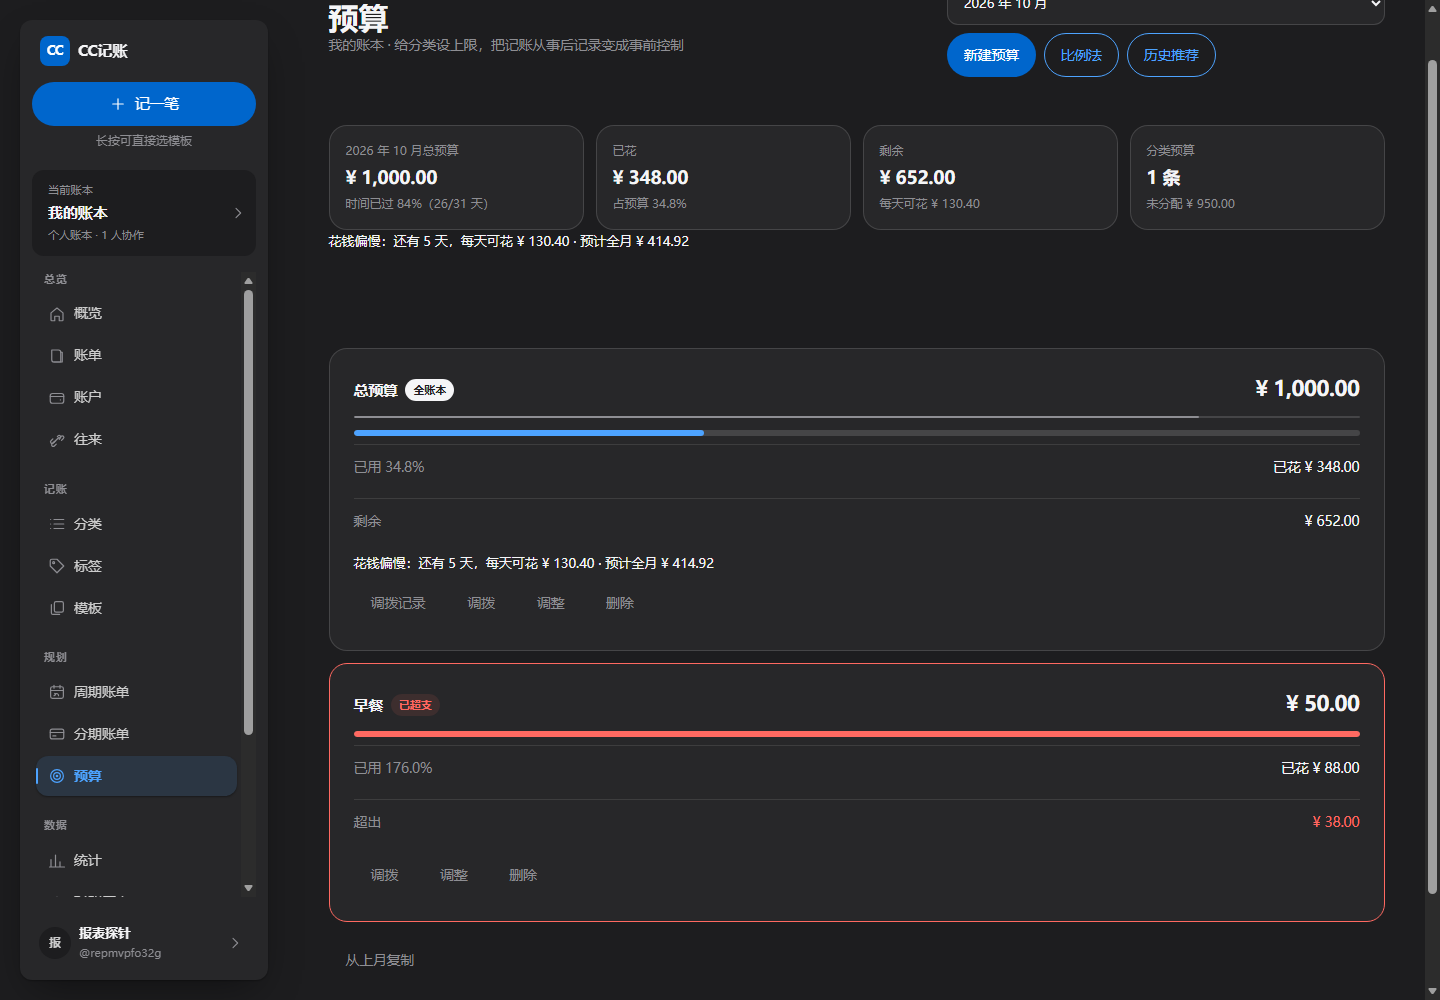
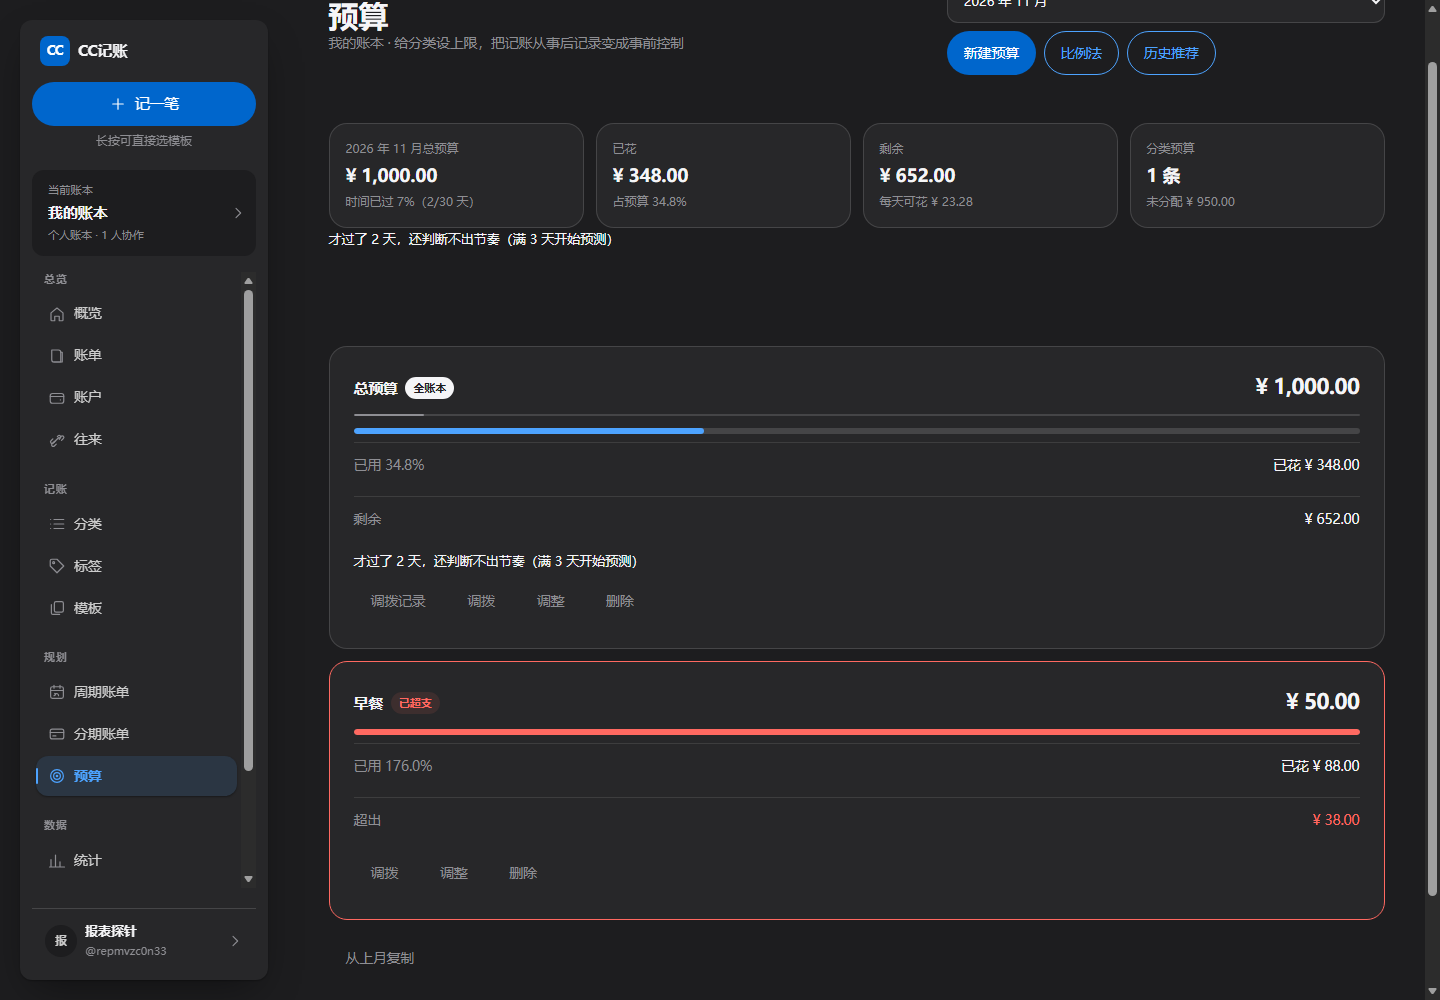
fix(stats): 本月下左右键按月跳转 (v1.1.20)
- shiftRange 平移粒度改由账期类型 filters.quick 给定，不再按区间实际跨度反推
  （本月区间结束日截到今天，导致每月 1~7 号跨度仅 1~7 天被误判为「周」、按 7 天爬）
- 月份分支落地为目标月整月，避免 setMonth 月末溢出进位
- 手填自定义区间仍退回按跨度判断；last12 行为保持不变
- 验证：真机浏览器月份序列 2026-11 → 10 → 09 → 08 逐月推进；
  typecheck / audit:syntax/template/imports/contrast/deploydoc 全绿；
  probe:reports 57/59（失败 2 条经基线对比为既有欠账，非回归）
- 版本号 bump 至 1.1.20（package.json / APP_VERSION / docker-compose / sw.js 缓存 v41 / CHANGELOG / DEPLOY）

diff --git a/public/assets/views/stats.js b/public/assets/views/stats.js
@@ -90,18 +90,56 @@ function last12Range() {
   return { from: iso(from), to: iso(to) };
 }
 
-/** 账期切换：按当前区间的**跨度类型**平移，而不是死板地按月移 */
-function shiftRange(range, dir) {
+/**
+ * 账期切换：按**账期类型**平移，而不是死板地按月移。
+ *
+ * ⚠ `granularity` 必须由账期类型（`filters.quick`）给定，**不能靠区间跨度反推**。
+ * 这是本函数曾经的真实 bug：`monthRange(0)` 把「本月」的结束日**截到今天**
+ * （避免统计到还没发生的日子），于是每月 1~7 号这几天，本月区间只有 1~7 天。
+ * 跨度判据 `days <= 7` 就把它当成了「一周」—— 用户选着「本月」点 ‹，
+ * 跳出来的却是「上月 25 号 ~ 26 号」这种碎区间，而不是「上个月」。
+ * 表现就是「选了本月，左右键却不按月跳」，而且只在月初那几天复现，
+ * 月中再点又是好的，极易被当成偶发。
+ *
+ * 只有手填的自定义区间没有账期类型可言，那种情况才退回按跨度判断。
+ */
+function shiftRange(range, dir, granularity) {
   const f = new Date(`${range.from}T00:00:00`);
   const t = new Date(`${range.to}T00:00:00`);
+
+  if (granularity === 'week') {
+    return {
+      from: iso(new Date(f.setDate(f.getDate() + dir * 7))),
+      to: iso(new Date(t.setDate(t.getDate() + dir * 7))),
+    };
+  }
+  if (granularity === 'month') {
+    /**
+     * 落到**目标月的整月**（1 号 ~ 月末），不是「起点 + 一个月」。
+     * 后者从 1 月 31 号起算会滑到 3 月（`setMonth` 的溢出进位）。
+     */
+    const nf = new Date(f.getFullYear(), f.getMonth() + dir, 1);
+    const nt = new Date(f.getFullYear(), f.getMonth() + dir + 1, 0);
+    return { from: iso(nf), to: iso(nt) };
+  }
+  if (granularity === 'year') {
+    return yearRange(new Date(`${range.from}T00:00:00`).getFullYear() - new Date().getFullYear() + dir);
+  }
+
+  /* 自定义区间：无账期类型，退回按跨度判断 */
   const days = Math.round((t - f) / 86400000) + 1;
-  if (days <= 7) return { from: iso(new Date(f.setDate(f.getDate() + dir * 7))), to: iso(new Date(t.setDate(t.getDate() + dir * 7))) };
+  if (days <= 7) {
+    return {
+      from: iso(new Date(f.setDate(f.getDate() + dir * 7))),
+      to: iso(new Date(t.setDate(t.getDate() + dir * 7))),
+    };
+  }
   if (days <= 31) {
     const nf = new Date(f.getFullYear(), f.getMonth() + dir, 1);
     const nt = new Date(f.getFullYear(), f.getMonth() + dir + 1, 0);
     return { from: iso(nf), to: iso(nt) };
   }
-  return yearRange((new Date(`${range.from}T00:00:00`).getFullYear() - new Date().getFullYear()) + dir);
+  return yearRange(new Date(`${range.from}T00:00:00`).getFullYear() - new Date().getFullYear() + dir);
 }
 
 const periodLabel = (r) => {
@@ -961,8 +999,23 @@ export async function renderStats(container, { go } = {}) {
     const el = $('[data-role=period-label]');
     if (el) el.textContent = periodLabel(r);
   }
+  /**
+   * 左右键的平移粒度 = 当前账期类型。
+   *
+   * ⚠ 手填过日期（`manualRange`）之后就不再有「账期类型」这回事了，
+   * 那种情况交回 `shiftRange` 按跨度退化 —— 用户自己圈的一段，
+   * 「按整月跳」反而不是他要的（他圈的可能就是 8 天）。
+   * 「所有 / 自定义」同理没有类型可言。
+   */
+  const stepGranularity = () => {
+    if (filters.manualRange) return undefined;
+    return filters.quick === 'week' || filters.quick === 'month' || filters.quick === 'year'
+      ? filters.quick
+      : undefined;
+  };
+
   $('[data-role=prev]')?.addEventListener('click', () => {
-    const r = shiftRange(activeRange(), -1);
+    const r = shiftRange(activeRange(), -1, stepGranularity());
     filters.dateFrom = r.from;
     filters.dateTo = r.to;
     filters.manualRange = true;
@@ -970,7 +1023,7 @@ export async function renderStats(container, { go } = {}) {
     load();
   });
   $('[data-role=next]')?.addEventListener('click', () => {
-    const r = shiftRange(activeRange(), 1);
+    const r = shiftRange(activeRange(), 1, stepGranularity());
     filters.dateFrom = r.from;
     filters.dateTo = r.to;
     filters.manualRange = true;

diff --git a/public/sw.js b/public/sw.js
@@ -21,7 +21,7 @@
  * 静态资源走 SWR，不换版本号的话用户第一次刷新拿到的仍是旧 JS ——
  * 正好是要修的那份，会被当成「没修好」。
  */
-const VERSION = 'cc-ledger-v40';
+const VERSION = 'cc-ledger-v41';
 const SHELL = `${VERSION}-shell`;
 const STATIC = `${VERSION}-static`;
 const API = `${VERSION}-api`;

diff --git a/src/config/env.ts b/src/config/env.ts
@@ -45,7 +45,7 @@ const EnvSchema = z.object({
   ENABLE_SCHEDULER: boolEnv(true),
   BACKUP_ENABLED: boolEnv(true),
   BACKUP_RETENTION_DAYS: z.coerce.number().int().min(0).default(14),
-  APP_VERSION: z.string().min(1).default('1.1.19'),
+  APP_VERSION: z.string().min(1).default('1.1.20'),
 });
 
 export type Env = z.infer<typeof EnvSchema>;

diff --git a/DEPLOY-绿联NAS.md b/DEPLOY-绿联NAS.md
@@ -216,7 +216,7 @@ cat .env
 | 配置项 | 作用 | 能不能改 |
 |---|---|---|
 | `build: context: .` | 用当前目录的 `Dockerfile` 构建镜像 | 别改 |
-| `image: ${CC_IMAGE:-cc-ledger:1.1.19}` | 用哪个镜像：不设 `CC_IMAGE` 就用本地构建的这个名字；设成 `ghcr.io/shayi/cc-ledger:latest` 就是拉 GitHub 构建好的 | 可改（见 5.0） |
+| `image: ${CC_IMAGE:-cc-ledger:1.1.20}` | 用哪个镜像：不设 `CC_IMAGE` 就用本地构建的这个名字；设成 `ghcr.io/shayi/cc-ledger:latest` 就是拉 GitHub 构建好的 | 可改（见 5.0） |
 | `restart: unless-stopped` | **开机自启的核心**：容器退出就自动拉起；你手动停的则不再拉 | 见第五节 |
 | `ports: "3000:3000"` | **端口映射**，见第六节 | 端口冲突时只改左边 |
 | `JWT_SECRET` | 登录凭证密钥 | **必改**，其余可不动 |
@@ -270,7 +270,7 @@ echo 'CC_IMAGE=ghcr.io/shayi/cc-ledger:latest' >> .env
 ```
 
 > `CC_IMAGE` 不是应用的环境变量，只被 `docker-compose.yml` 读取，用来决定「用哪个镜像」。
-> 不写这一行 = 走本地构建（默认 `cc-ledger:1.1.19`）。
+> 不写这一行 = 走本地构建（默认 `cc-ledger:1.1.20`）。
 
 **第 2 步：登录 ghcr**（镜像设为 public 后可以跳过这步）
 
@@ -302,7 +302,7 @@ docker compose up -d
 | `v1.1.12` | `ghcr.io/shayi/cc-ledger:v1.1.12` | 打了 `v*` tag | 固定版本 |
 | `v1.1.17` | `ghcr.io/shayi/cc-ledger:v1.1.17` | 打了 `v*` tag | 固定版本 |
 | `v1.1.18` | `ghcr.io/shayi/cc-ledger:v1.1.18` | 打了 `v*` tag | 固定版本 |
-| `v1.1.19` | `ghcr.io/shayi/cc-ledger:v1.1.19` | 打了 `v*` tag | 固定版本 |
+| `v1.1.20` | `ghcr.io/shayi/cc-ledger:v1.1.20` | 打了 `v*` tag | 固定版本 |
 
 > ⚠ **版本标签带 `v` 前缀**，和 git tag 完全一致：写 `v1.1.12`，**不能**写成 `1.1.12`。
 > 少一个 `v` 拉不到镜像（`manifest unknown`，HTTP 404），但报错只说"找不到"，
@@ -724,7 +724,7 @@ curl http://127.0.0.1:3000/healthz
 {
   "status": "ok",
   "app": "CC记账",
-  "version": "1.1.19",
+  "version": "1.1.20",
   "uptimeSeconds": 3944,
   "database": { "connected": true, "migrationsApplied": 17, "walMode": true },
   "scheduler": { "running": true, "nextRun": "...", "tasks": [] }

diff --git a/CHANGELOG.md b/CHANGELOG.md
@@ -4,6 +4,12 @@
 打 `v*` tag 时 GitHub Actions 会产出同名的固定版本镜像（如 `v1.1.0`），
 推 `main` 时产出 `latest` 与 `sha-xxxxxxx`。
 
+## 1.1.20 — 2026-11-02
+
+### 修复
+
+- **统计页「本月」下左右键不按月跳转**（`public/assets/views/stats.js`）：`shiftRange()` 原按区间**实际跨度**反推平移粒度（`≤7` 天按周、`≤31` 天按月），而「本月」的结束日被刻意截到今天（避免统计到尚未发生的日子），导致每月 1~7 号本月区间只有 1~7 天、被误判为「周」而按 7 天爬；又因 `periodLabel` 对同月碎区间仍写「2026-10」，标签看不出错，表现为**连点几次月份卡住不动、数据几乎为空**。改为平移粒度由账期类型 `filters.quick` 给定（`stepGranularity()`），`shiftRange` 先走 `week/month/year` 分支，仅手填自定义区间才退回按跨度判断；月份分支落地为目标月整月，避免 `setMonth` 在月末溢出进位。
+
 ## 1.1.19 — 2026-11-01
 
 ### 手机端统计页修复（两处）
